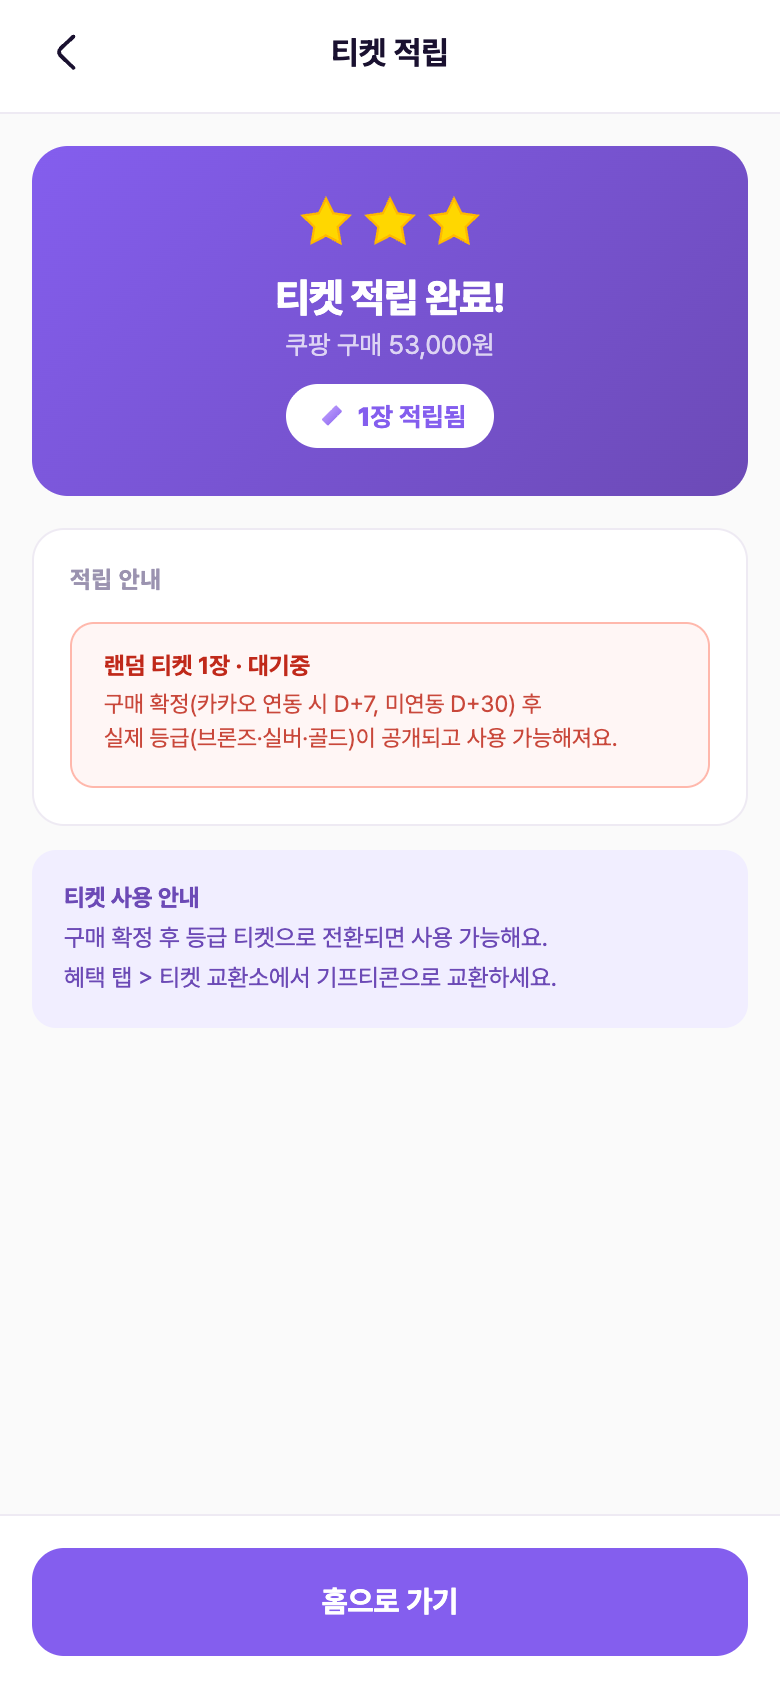
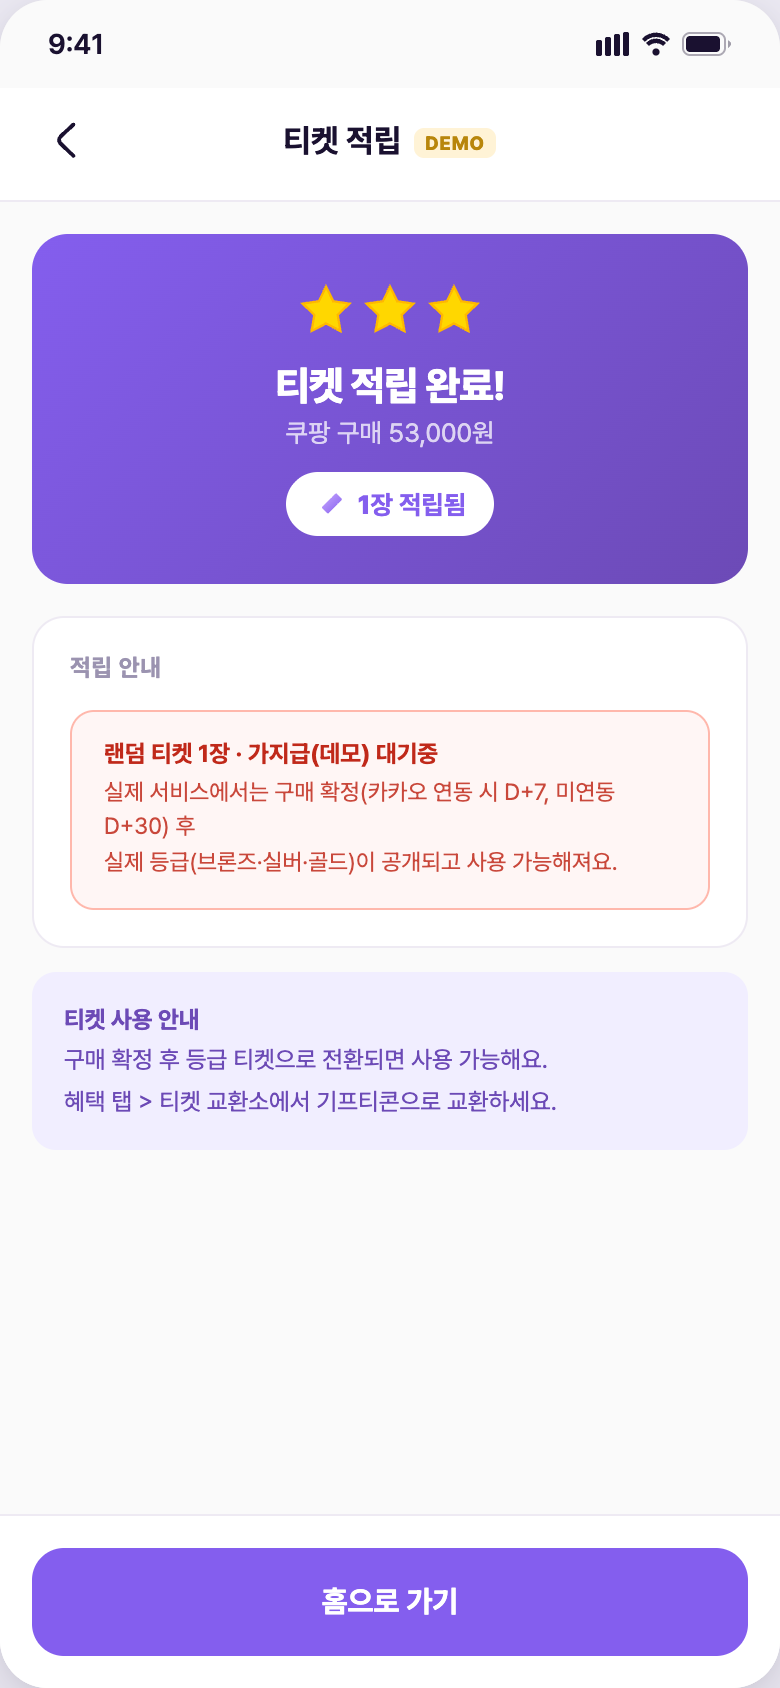
docs(app): 경유구매 스토리보드를 실제 플로우/데모 분리 구조로 갱신 (2026.07.10)
- 신규 스텝 5(브릿지 복귀 실제 플로우 기본 안내) 추가, 스텝 6(데모 시뮬)을 확인 팝업
  게이트·DEMO 뱃지·점선 테두리 반영해 2컷(확인 팝업 + 입력 시트)으로 갱신
- 스텝 7(적립완료) 화면에 DEMO 뱃지 + "가지급(데모)" 표기 반영, 이후 스텝 8~11 순번 조정
- 정책표·미결보고 항목을 "확인 팝업 뒤로 격리·라벨링됨(부분 완화)"로 갱신
- 신규 캡처 3장(05-bridge-real-flow, 05a-demo-confirm-popup, 05b-demo-purchase-sheet)
  + 기존 04/06 자산 갱신, 이제 안 쓰는 05-purchase-sheet-53000 제거
- 친구초대 스토리보드의 동일 패턴 적용 사실을 참고 사항에 교차 링크

diff --git a/app/referral-shopping-storyboard.html b/app/referral-shopping-storyboard.html
@@ -112,13 +112,18 @@
 
   <header class="doc">
     <h1>경유 구매 적립 프로세스 스토리보드</h1>
-    <p class="lead">홈 쇼핑몰 섹션 → 적립 안내 → 이동 브릿지 → 구매 → 랜덤 티켓 적립 → CMS 확정·집계 — 실제 배포본 화면 캡처 기반</p>
-    <p class="meta">pricepick-demo.vercel.app /app(게스트) · /cms(firstadmin) 배포본에서 직접 조작 후 캡처 (2026.07.09) · 목업/와이어프레임 없음</p>
+    <p class="lead">홈 쇼핑몰 섹션 → 적립 안내 → 이동 브릿지 → (실제 플로우 기본) 자동 감지 안내 → (선택) 데모 시뮬 → 랜덤 티켓 적립 → CMS 확정·집계 — 실제 배포본 화면 캡처 기반</p>
+    <p class="meta">pricepick-demo.vercel.app /app(게스트) · /cms(firstadmin) 배포본에서 직접 조작 후 캡처 (2026.07.09 최초 작성 · 2026.07.10 실제 플로우/데모 분리 구조 반영) · 목업/와이어프레임 없음</p>
   </header>
 
   <div class="note-top">
     <svg width="18" height="18" viewBox="0 0 24 24" fill="none" stroke="#3b5bdb" stroke-width="2"><circle cx="12" cy="12" r="10"/><path d="M12 8v5"/><circle cx="12" cy="16" r=".5" fill="#3b5bdb"/></svg>
-    <div>이 문서의 모든 화면 썸네일은 실제 배포본에서 게스트 계정(닉네임 "다정한물개") 생성 → 쿠팡 경유 → 구매 53,000원 시뮬 → 랜덤 티켓 적립 → CMS 포스트백 확정까지 실제로 수행한 뒤 캡처한 스크린샷입니다. 그림이나 와이어프레임으로 대체한 화면은 없습니다.</div>
+    <div>이 문서의 모든 화면 썸네일은 실제 배포본에서 게스트 계정 생성 → 쿠팡 경유 → (2026.07.10) 브릿지 복귀 기본 안내 → 데모 확인 팝업 → 구매 53,000원 시뮬 → 랜덤 티켓 적립까지 실제로 수행한 뒤 캡처한 스크린샷입니다. 그림이나 와이어프레임으로 대체한 화면은 없습니다.</div>
+  </div>
+
+  <div class="note-top" style="background:var(--amber-bg);border-color:#f0dcae;color:#7a3f10;">
+    <svg width="18" height="18" viewBox="0 0 24 24" fill="none" stroke="#b9770a" stroke-width="2"><circle cx="12" cy="12" r="10"/><path d="M12 8v5"/><circle cx="12" cy="16" r=".5" fill="#b9770a"/></svg>
+    <div><b>2026.07.10 구조 변경(형님 확정 go):</b> 기존엔 브릿지 3.5초 후 금액 입력 시트가 자동으로 떠서, 실제 앱에 없는 데모 장치가 마치 실제 플로우처럼 보였다. 이제 <b>기본 화면은 실제 플로우</b>(포스트백 자동 감지 안내, 입력창 없음)이고, 금액 입력 시뮬은 안내 하단 "DEMO" 진입점 → 확인 팝업을 거쳐야만 뜬다. 시뮬 화면 자체도 DEMO 뱃지·점선 테두리로 구분되고, 지급 결과는 "가지급(데모)"로 표기된다. 상세는 스텝 4~6 참조.</div>
   </div>
 
   <div class="policy-bar">
@@ -213,18 +218,14 @@
     <div class="step">
       <div class="step-badge">5</div>
       <div class="step-card">
-        <span class="role role-demo">데모 시뮬</span>
-        <h2>구매 완료 — 금액 입력 시뮬 (데모 전용 장치)</h2>
-        <p class="desc">실서비스에서는 외부 쇼핑몰에서 구매하면 제휴몰 포스트백(구매 확인 콜백)이 서버로 수신된다. 데모에서는 이 포스트백을 대신하는 시뮬 바텀시트가 브릿지 3.5초 후 자동으로 떠서, 구매 금액을 입력하면(예: 53,000원) "티켓 받기"로 포스트백 수신·가지급 적립까지 실데이터로 처리된다(Firestore <code>postbacks</code> + <code>user_tickets</code> 기록).</p>
+        <span class="role role-system">시스템 · 실제 플로우 (기본)</span>
+        <h2>브릿지 복귀 안내 — 자동 감지, 입력 없음 (2026.07.10 기본값으로 확정)</h2>
+        <p class="desc">브릿지 진입 3.5초 후 자동으로 뜨는 <b>기본 화면</b>. 실서비스에서는 쿠팡 구매가 제휴사 포스트백으로 <b>자동 감지</b>되므로 앱 안에서 금액을 입력하는 화면은 없다 — "구매하신 내역은 자동으로 감지돼요", "적립 대기(가지급)" 상태로 생성 후 "구매 확정(카카오 연동 D+7 · 미연동 D+30) 후 사용 가능"을 그대로 안내하고 "홈으로 가기"로 종료된다. 하단에 데모 시뮬레이션 진입점(DEMO 뱃지)이 별도로 붙어 있다.</p>
         <div class="shots">
           <div class="shot wide">
-            <img src="referral-shopping-storyboard-assets/05-purchase-sheet-53000.png" alt="구매 금액 입력 시뮬 바텀시트">
-            <div class="cap">데모 시뮬 바텀시트 · 53,000원 입력 → "티켓 받기"</div>
+            <img src="referral-shopping-storyboard-assets/05-bridge-real-flow.png" alt="브릿지 복귀 실제 플로우 기본 안내 화면">
+            <div class="cap">실제 플로우 기본 안내 · 자동 감지·가지급 대기 설명 + "홈으로 가기" + 하단 DEMO 진입점</div>
           </div>
-        </div>
-        <div class="warn-box">
-          <svg width="15" height="15" viewBox="0 0 24 24" fill="none" stroke="#b9770a" stroke-width="2"><path d="M12 3l10 18H2L12 3z"/><path d="M12 10v4"/><circle cx="12" cy="17.2" r=".5" fill="#b9770a"/></svg>
-          <div><b>정책 불일치(데모 장치) — 형님 결정 필요:</b> 시트의 미리보기가 "적립 예정: 실버 1장"으로 <b>등급을 사전 노출</b>한다. 정책은 확정 전까지 등급 비공개(랜덤 표기). 데모 전용 장치라 실서비스와 무관하지만, 데모를 개발자·이해관계자에게 공유하는 용도라면 "랜덤 티켓 1장"으로 고칠지 결정 대기.</div>
         </div>
       </div>
     </div>
@@ -236,18 +237,22 @@
     <div class="step">
       <div class="step-badge">6</div>
       <div class="step-card">
-        <span class="role role-user">앱 · 적립 완료</span>
-        <h2>티켓 적립 완료 — 랜덤 티켓 1장 · 대기중</h2>
-        <p class="desc">적립 완료 화면. 구매 정보(쿠팡 53,000원)와 "1장 적립됨" 배지, 그리고 "랜덤 티켓 1장 · 대기중" 안내가 노출된다. 확정 전에는 실제 등급(브론즈·실버·골드)을 공개하지 않는 정책이 화면에 그대로 반영돼 있고, 확정 대기 기간도 <b>연동 D+7 / 미연동 D+30</b>으로 정확히 표기된다. "홈으로 가기"로 복귀.</p>
+        <span class="role role-demo">데모 시뮬 (선택, 확인 게이트)</span>
+        <h2>구매 완료 — 금액 입력 시뮬 (확인 팝업 통과 시에만 노출)</h2>
+        <p class="desc">스텝 5의 "DEMO 방금 결제했다고 가정하고 시뮬레이션 보기"를 눌러야만 진입한다. 먼저 "데모용 시뮬레이션입니다 — 실제 앱에는 없는 화면이에요" 확인 팝업이 뜨고, "계속하기"를 눌러야 금액 입력 시트가 열린다. 시트 자체도 상단 DEMO 뱃지 + 점선 테두리로 실제 화면과 시각적으로 구분되고, 버튼 라벨도 "데모로 지급받기"로 바뀌었다. 구매 금액을 입력하면(예: 53,000원) 실서비스의 포스트백 수신·가지급 적립을 실데이터로 재현한다(Firestore <code>postbacks</code> + <code>user_tickets</code>, <code>is_demo_sim: true</code> 플래그로 실제 포스트백과 구분 기록).</p>
         <div class="shots">
           <div class="shot wide">
-            <img src="referral-shopping-storyboard-assets/06-earn-done.png" alt="티켓 적립 완료 화면">
-            <div class="cap">적립 완료 · 랜덤 티켓 1장 대기중 + D+7/D+30 안내</div>
+            <img src="referral-shopping-storyboard-assets/05a-demo-confirm-popup.png" alt="데모 시뮬레이션 확인 팝업">
+            <div class="cap">진입 확인 팝업 · "데모용 시뮬레이션입니다" + 취소/계속하기</div>
+          </div>
+          <div class="shot wide">
+            <img src="referral-shopping-storyboard-assets/05b-demo-purchase-sheet-53000.png" alt="구매 금액 입력 시뮬 바텀시트 (DEMO 뱃지)">
+            <div class="cap">데모 시뮬 바텀시트(DEMO 뱃지 + 점선 테두리) · 53,000원 입력 → "데모로 지급받기"</div>
           </div>
         </div>
-        <div class="badge-note">
-          <svg width="14" height="14" viewBox="0 0 24 24" fill="none" stroke="#5b6478" stroke-width="2"><circle cx="12" cy="12" r="10"/><path d="M12 16v-5M12 8h.01"/></svg>
-          <span>관찰: 데스크톱 폰 프레임(캡처 기준)에서는 정상 렌더되나, 좁은 모바일 뷰포트(390px)에서는 이 화면 하단(홈으로 가기 CTA)이 잘리는 앱 렌더링 이슈가 있다. 위 썸네일은 정상 렌더 상태의 실제 화면이며 합성·수정본이 아니다. 실기기 확인 필요 — 미결 보고 참조.</span>
+        <div class="warn-box">
+          <svg width="15" height="15" viewBox="0 0 24 24" fill="none" stroke="#b9770a" stroke-width="2"><path d="M12 3l10 18H2L12 3z"/><path d="M12 10v4"/><circle cx="12" cy="17.2" r=".5" fill="#b9770a"/></svg>
+          <div><b>정책 불일치(데모 장치, 부분 완화) — 형님 결정 필요:</b> 시트의 미리보기가 "적립 예정(데모 미리보기): 실버 1장"으로 여전히 <b>등급을 사전 노출</b>한다(정책은 확정 전까지 등급 비공개). 2026.07.10에 "(데모 미리보기)" 라벨을 붙이고 확인 팝업 뒤로 격리해 오인 소지는 줄였지만, 값 자체를 "랜덤 티켓 1장"으로 완전히 숨길지는 여전히 결정 대기.</div>
         </div>
       </div>
     </div>
@@ -258,6 +263,29 @@
 
     <div class="step">
       <div class="step-badge">7</div>
+      <div class="step-card">
+        <span class="role role-user">앱 · 적립 완료</span>
+        <h2>티켓 적립 완료 — 랜덤 티켓 1장 · 가지급(데모) 대기중</h2>
+        <p class="desc">적립 완료 화면. 헤더에 DEMO 뱃지가 붙어 이 결과가 시뮬레이션임을 명시한다. 구매 정보(쿠팡 53,000원)와 "1장 적립됨" 배지, "랜덤 티켓 1장 · 가지급(데모) 대기중" 안내가 노출된다. 확정 전에는 실제 등급(브론즈·실버·골드)을 공개하지 않는 정책이 화면에 그대로 반영돼 있고, 확정 대기 기간도 <b>연동 D+7 / 미연동 D+30</b>으로 정확히 표기된다. "홈으로 가기"로 복귀.</p>
+        <div class="shots">
+          <div class="shot wide">
+            <img src="referral-shopping-storyboard-assets/06-earn-done.png" alt="티켓 적립 완료 화면">
+            <div class="cap">적립 완료 · DEMO 뱃지 + 랜덤 티켓 1장 가지급(데모) 대기중 + D+7/D+30 안내</div>
+          </div>
+        </div>
+        <div class="badge-note">
+          <svg width="14" height="14" viewBox="0 0 24 24" fill="none" stroke="#5b6478" stroke-width="2"><circle cx="12" cy="12" r="10"/><path d="M12 16v-5M12 8h.01"/></svg>
+          <span>관찰(기존 미결 유지): 데스크톱 폰 프레임(캡처 기준)에서는 정상 렌더되나, 좁은 모바일 뷰포트(390px)에서는 이 화면 하단(홈으로 가기 CTA)이 잘리는 앱 렌더링 이슈가 있다(2026.07.10 재확인 — 회귀 아닌 기존 버그). 위 썸네일은 정상 렌더 상태의 실제 화면이며 합성·수정본이 아니다. 실기기 확인 필요 — 미결 보고 참조.</span>
+        </div>
+      </div>
+    </div>
+
+    <div class="arrow-down">
+      <svg width="20" height="28" viewBox="0 0 20 28" fill="none" stroke="currentColor" stroke-width="2"><path d="M10 2v22M3 17l7 7 7-7"/></svg>
+    </div>
+
+    <div class="step">
+      <div class="step-badge">8</div>
       <div class="step-card">
         <span class="role role-user">앱 · 혜택 탭</span>
         <h2>혜택 탭 — 대기 현황</h2>
@@ -281,7 +309,7 @@
   <div class="flow">
 
     <div class="step">
-      <div class="step-badge">8</div>
+      <div class="step-badge">9</div>
       <div class="step-card">
         <span class="role role-cms">CMS · 포스트백</span>
         <h2>포스트백 로그 — 가지급(대기) 수신 확인</h2>
@@ -300,7 +328,7 @@
     </div>
 
     <div class="step">
-      <div class="step-badge">9</div>
+      <div class="step-badge">10</div>
       <div class="step-card">
         <span class="role role-cms">CMS · 확정 처리</span>
         <h2>구매 확정 처리 — 가지급 티켓 → 등급 티켓 전환</h2>
@@ -323,7 +351,7 @@
     </div>
 
     <div class="step">
-      <div class="step-badge">10</div>
+      <div class="step-badge">11</div>
       <div class="step-card">
         <span class="role role-cms">CMS · 집계</span>
         <h2>매출 내역 — 수수료 매출 · 적립 금액(티켓) 집계</h2>
@@ -349,7 +377,7 @@
     <tr>
       <td class="k">가지급 티켓</td>
       <td>구매 1건 = 랜덤 티켓 1장(가지급). 등급은 내부 확정하되 확정 전까지 유저에게 비공개.</td>
-      <td>적립 완료·혜택 탭 정상 반영 <span class="tag-ok">일치</span><br>데모 시뮬 시트만 등급 사전 노출 <span class="tag-warn">불일치 ②</span></td>
+      <td>적립 완료·혜택 탭 정상 반영 <span class="tag-ok">일치</span><br>데모 시뮬 시트만 등급 사전 노출(확인 팝업 뒤로 격리·라벨링됨) <span class="tag-warn">불일치 ②</span></td>
     </tr>
     <tr>
       <td class="k">구매 확정 대기</td>
@@ -387,8 +415,8 @@
       <p>적립 안내(스텝 3)의 "티켓 확정" 문구가 "구매 확정 후 7일 사용 가능"으로만 서술돼 미연동 D+30이 누락됐다. 이 캡처 계정은 미연동 게스트다. 마스터 정책서(SoT)는 <b>연동 D+7 / 미연동 D+30</b>으로 확정돼 있고, 같은 앱의 적립 완료 화면·혜택 탭·CMS는 모두 이를 정확히 표기한다 — 이 화면만 어긋난 <b>구현 누락</b>이며 형님 결정을 기다릴 사항이 아니다. 정정 필요. (적립 조건·제외 안내 ⑥ 보고 ③과 동일 건)</p>
     </div>
     <div class="issue ref">
-      <h3>② 데모 구매 시뮬 시트가 등급 구성을 사전 노출 <span class="tag tag-demo">데모 한정</span></h3>
-      <p>구매 금액 입력 시트(스텝 5)의 "적립 예정: 실버 1장" 미리보기가 등급을 확정 전에 노출한다. 정책은 확정 전까지 등급 비공개("랜덤 티켓"으로만 표시)다. 포스트백을 대신하는 데모 전용 장치라 실서비스와 무관하지만, 개발자·이해관계자 공유 시 오해 소지가 있어 "랜덤 티켓 1장"으로 고칠지 확인 필요. (⑤·⑥ 보고와 동일 건)</p>
+      <h3>② 데모 구매 시뮬 시트가 등급 구성을 사전 노출 <span class="tag tag-demo">데모 한정 · 부분 완화</span></h3>
+      <p>구매 금액 입력 시트(스텝 6)의 "적립 예정(데모 미리보기): 실버 1장" 미리보기가 등급을 확정 전에 노출한다. 정책은 확정 전까지 등급 비공개("랜덤 티켓"으로만 표시)다. 2026.07.10에 이 시트 자체를 확인 팝업 뒤로 격리하고 "(데모 미리보기)" 라벨을 붙여 실제 플로우로 오인할 소지는 없앴지만, 값을 "랜덤 티켓 1장"으로 완전히 숨길지는 여전히 확인 필요. (기본 화면은 스텝 5 참조 — 실제 플로우엔 이 시트 자체가 없음)</p>
     </div>
     <div class="issue minor">
       <h3>③ 적립 완료 화면이 좁은 모바일 뷰포트에서 하단 잘림 <span class="tag tag-missing">앱 렌더링</span></h3>
@@ -403,14 +431,15 @@
   <footer class="notes">
     <h4>참고 사항</h4>
     <ul>
-      <li>캡처 환경: 배포본 <code>pricepick-demo.vercel.app/app</code>을 데스크톱 폰 프레임(390×844)에서 신규 게스트("다정한물개")로 실제 조작. CMS는 <code>/cms</code> firstadmin 계정. 캡처 일시 2026-07-09.</li>
+      <li>캡처 환경: 배포본 <code>pricepick-demo.vercel.app/app</code>에서 신규 게스트로 실제 조작. 스텝 1~3, 9~11(CMS)은 데스크톱 폰 프레임(390×844) 캡처(2026-07-09, 닉네임 "다정한물개"). 스텝 4~7(브릿지·데모·적립완료)은 2026-07-10 재구성 반영을 위해 신규 게스트로 재캡처(모바일 풀스크린 390×844, 스텝 7만 렌더링 버그 회피 위해 데스크톱 폰 프레임 사용). CMS는 <code>/cms</code> firstadmin 계정.</li>
       <li>등급 전환 기준(Greedy 환산): 골드 100,000 / 실버 50,000 / 브론즈 5,000원당 1장, 큰 단위부터. 티켓 1장 원환산 = 골드 2,000 / 실버 1,000 / 브론즈 100원(전체 보상률 2%). 53,000원 = 실버 1장(원환산 1,000원) 실측 확인.</li>
-      <li>이 문서 캡처 과정에서 생성된 테스트 게스트 1명(다정한물개)과 확정 포스트백 1건은 데모 DB에 실데이터로 남아 있다(캡처 반복분 5건은 정리 완료).</li>
+      <li>이 문서 캡처 과정에서 생성된 테스트 게스트 계정 여러 개와 데모 포스트백·티켓 기록이 데모 DB에 실데이터로 남아 있다(2026.07.10 재캡처분 포함, is_demo_sim 플래그로 표시됨).</li>
       <li>정책 근거는 마스터 정책서(policyspec.html — 2026-07-09 SoT 확정). 화면·다른 문서와 충돌하면 정책서가 우선한다.</li>
+      <li>동일한 "실제 플로우 기본 + 데모는 확인 팝업 뒤로 격리" 패턴이 친구초대 스토리보드(friend-invite-storyboard.html)의 "첫 구매 완료 처리" 데모 트리거에도 2026.07.10 동일 적용됐다(별도 문서, 이 스토리보드 범위 밖).</li>
     </ul>
   </footer>
 
 </div>
-<div class="last-update">Last Update <b>2026.07.09 22:21</b></div>
+<div class="last-update">Last Update <b>2026.07.10 12:30</b></div>
 </body>
 </html>